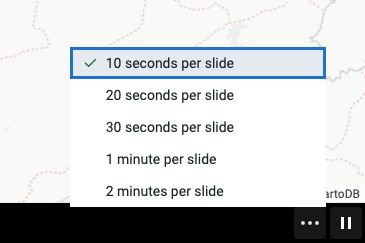
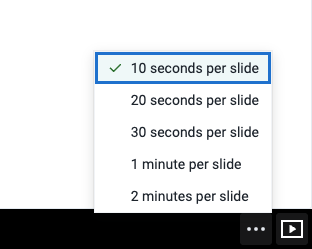
docs: update docs screenshots with the countdown timer

diff --git a/docs/dashboards.md b/docs/dashboards.md
@@ -240,7 +240,7 @@ Slideshow control bar:
 
 The slideshow can be autoplayed, or navigated manually.
 
-When you enter the slideshow, it is paused. Click the play/pause button in the control bar to start the autoplay, which means the slides will automatically advance according to the timing setting. Once the slideshow has reached the last slide, it will restart automatically. If 24 hours has passed since the slideshow began, a message stating as such will appear in the control bar, since data does not refresh during the slideshow and may be considered out of date for certain visualizations.
+When you enter the slideshow, it is paused. Click the play/pause button in the control bar to start the autoplay, and the slides will automatically advance according to the timing setting. A countdown bar is visible on the play/pause button while the slideshow is playing. Once the slideshow has reached the last slide, it will restart automatically. If 24 hours has passed since the slideshow began, a message stating as such will appear in the control bar, since data does not refresh during the slideshow and may be considered out of date for certain visualizations.
 
 The autoplay controls include the play/pause button and the timing settings button. The user's most recent selected timing setting is remembered for the next time the slideshow is started.
 
@@ -252,7 +252,7 @@ Exit the slideshow with the **esc** key or by pressing the exit button.
 
 Any filters that are applied will be displayed in the slideshow control bar. Note that messages and spacer items are not displayed in the slideshow.
 
-![Slideshow navigation bar](resources/images/dashboard-slideshow-navbar.png)
+![Slideshow navigation bar](resources/images/slideshow-filters.png)
 
 ### Make dashboards available offline
 
